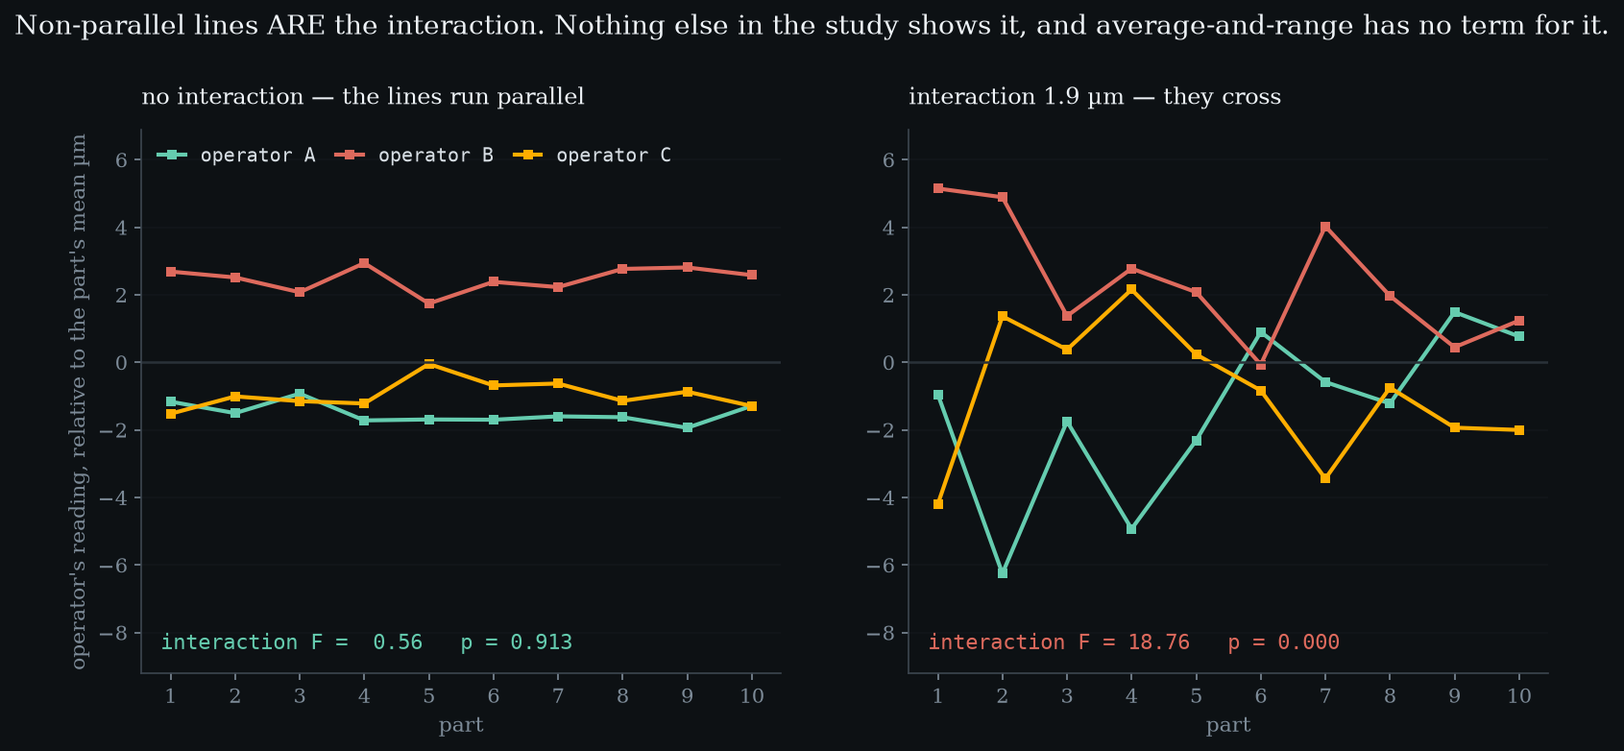
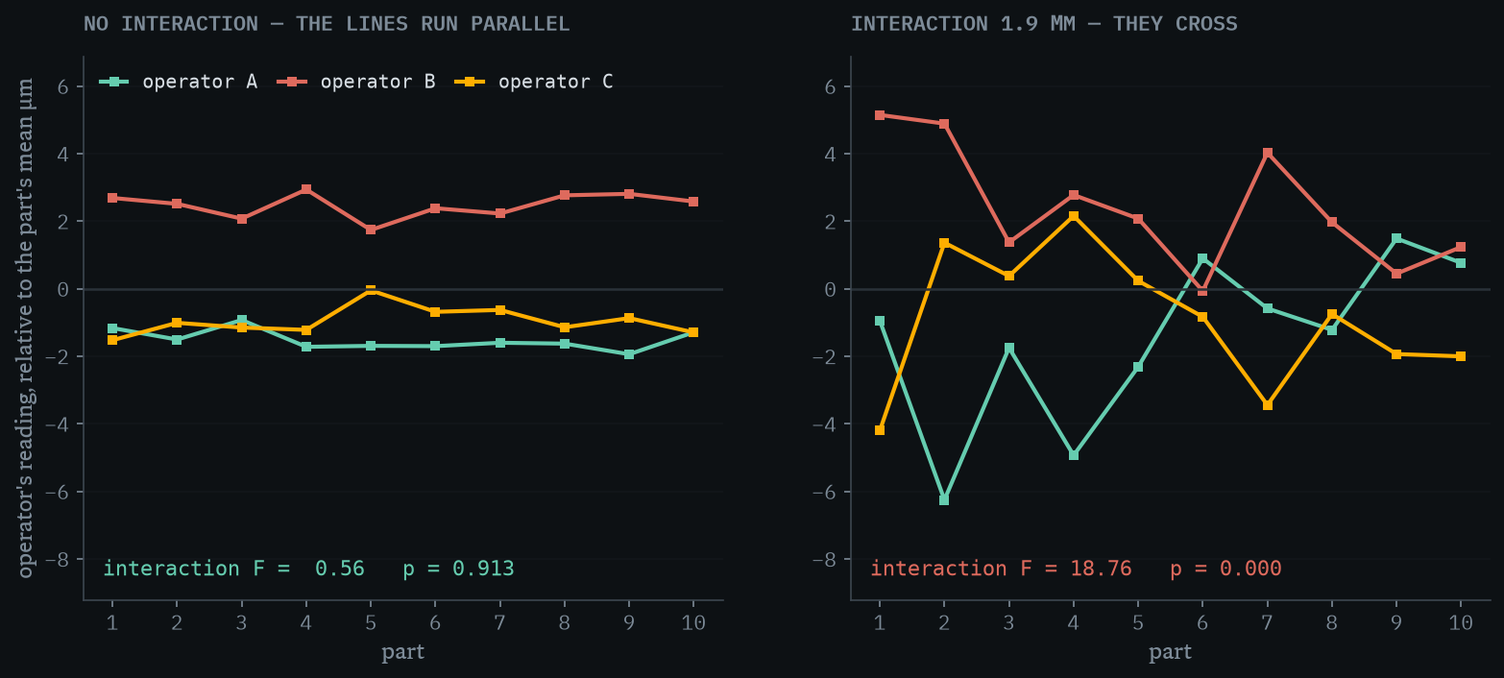
Figures: site type (Libron + Plex Mono), suptitles dropped, panel titles as mono labels, text-collision check
figstyle.apply() loads the page faces; finish() removes the suptitle (the
figcaption already carries it), sets panel titles as mono micro-labels and
prints any overlapping text boxes. img width/height synced to the new PNGs.

Also reverts the SPC card on the landing page: contract check 11 allows one
link to the other course, at the seam (note added to the contract).

diff --git a/level-04.html b/level-04.html
@@ -548,7 +548,7 @@
           <p>Improve the process - take the part spread from 4.7&nbsp;µm down to 1.2 - and the study ratio gets <em>worse</em>, from 40.1&nbsp;% to 86.4. <span class="note data"><span class="k">tightening the process</span><span class="row num"><span class="rk">study ratio before</span><span class="rv">40.1 %</span></span><span class="row num"><span class="rk">study ratio after</span><span class="rv">86.4 %</span></span><span class="row txt"><span class="rk">tolerance ratio</span><span class="rv">41.2 % (unmoved)</span></span></span>Nothing about the instrument changed. A gauge measuring parts that are nearly identical cannot sort them, and as the parts converge the ratio approaches a hundred percent.</p>
           <p>Which is worth stating plainly, because it is the opposite of an intuition: a good process makes a gauge look bad on the study ratio. <span class="note"><span class="k">both are honest</span>If you are sorting parts into bins, the study ratio is the one you want. If you are stamping conform or not, it is the wrong number entirely.</span>The gauge did not get worse. The question got harder.</p>
 <figure>
-        <a class="zoom" href="msa-lab/docs/l04_1_against_what.png"><img src="msa-lab/docs/l04_1_against_what.png" width="1873" height="783"
+        <a class="zoom" href="msa-lab/docs/l04_1_against_what.png"><img src="msa-lab/docs/l04_1_against_what.png" width="1728" height="707"
              loading="lazy" decoding="async"
              alt="Left: the gauge spread drawn to scale beside the study spread and the tolerance. Right: a map of part spread against tolerance, shaded where the two AIAG gates give opposite verdicts for the same gauge."></a>
         <figcaption><span class="fignum">Figure 4.2</span><span class="figtext">Same numerator, two denominators. The shaded region is where the two gates disagree &mdash; for one unchanged gauge.</span></figcaption>
@@ -607,7 +607,7 @@
           <p class="lead">Beside those two the standard prints a third: the <a class="gl" href="glossary.html#ndc" data-gl="ndc">number of distinct categories</a>, which is supposed to say how many groups the gauge can separate.</p>
           <p>It is not <a class="gl" href="glossary.html#independence" data-gl="independence">independent</a>. <span class="note data"><span class="k">two routes, one number</span><span class="row num"><span class="rk"><span class="nc">ndc</span> from the components</span><span class="rv">3.2184</span></span><span class="row num"><span class="rk"><span class="nc">ndc</span> from the study ratio</span><span class="rv">3.2184</span></span><span class="row num"><span class="rk">difference</span><span class="rv">0 (algebraic)</span></span></span>ndc is <span class="tex" data-tex="1.41\,\sigma_{part}/\sigma_{gauge}"><span class="katex"><span class="katex-mathml"><math xmlns="http://www.w3.org/1998/Math/MathML"><semantics><mrow><mn>1.41</mn><mtext> </mtext><msub><mi>σ</mi><mrow><mi>p</mi><mi>a</mi><mi>r</mi><mi>t</mi></mrow></msub><mi mathvariant="normal">/</mi><msub><mi>σ</mi><mrow><mi>g</mi><mi>a</mi><mi>u</mi><mi>g</mi><mi>e</mi></mrow></msub></mrow><annotation encoding="application/x-tex">1.41\,\sigma_{part}/\sigma_{gauge}</annotation></semantics></math></span><span class="katex-html" aria-hidden="true"><span class="katex-base"><span class="katex-strut" style="height:1.0361em;vertical-align:-0.2861em;"></span><span class="mord">1.41</span><span class="mspace" style="margin-right:0.1667em;"></span><span class="mord"><span class="mord mathnormal" style="margin-right:0.0359em;">σ</span><span class="msupsub"><span class="vlist-t vlist-t2"><span class="vlist-r"><span class="vlist" style="height:0.2806em;"><span style="top:-2.55em;margin-left:-0.0359em;margin-right:0.05em;"><span class="pstrut" style="height:2.7em;"></span><span class="katex-sizing reset-size6 size3 mtight"><span class="mord mtight"><span class="mord mathnormal mtight">p</span><span class="mord mathnormal mtight">a</span><span class="mord mathnormal mtight" style="margin-right:0.0278em;">r</span><span class="mord mathnormal mtight">t</span></span></span></span></span><span class="vlist-s"></span></span><span class="vlist-r"><span class="vlist" style="height:0.2861em;"><span></span></span></span></span></span></span><span class="mord">/</span><span class="mord"><span class="mord mathnormal" style="margin-right:0.0359em;">σ</span><span class="msupsub"><span class="vlist-t vlist-t2"><span class="vlist-r"><span class="vlist" style="height:0.1514em;"><span style="top:-2.55em;margin-left:-0.0359em;margin-right:0.05em;"><span class="pstrut" style="height:2.7em;"></span><span class="katex-sizing reset-size6 size3 mtight"><span class="mord mtight"><span class="mord mathnormal mtight" style="margin-right:0.0359em;">g</span><span class="mord mathnormal mtight">a</span><span class="mord mathnormal mtight" style="margin-right:0.0359em;">ug</span><span class="mord mathnormal mtight">e</span></span></span></span></span><span class="vlist-s"></span></span><span class="vlist-r"><span class="vlist" style="height:0.2861em;"><span></span></span></span></span></span></span></span></span></span></span>, and the study ratio is <span class="tex" data-tex="\sigma_{gauge}/\sigma_{total}"><span class="katex"><span class="katex-mathml"><math xmlns="http://www.w3.org/1998/Math/MathML"><semantics><mrow><msub><mi>σ</mi><mrow><mi>g</mi><mi>a</mi><mi>u</mi><mi>g</mi><mi>e</mi></mrow></msub><mi mathvariant="normal">/</mi><msub><mi>σ</mi><mrow><mi>t</mi><mi>o</mi><mi>t</mi><mi>a</mi><mi>l</mi></mrow></msub></mrow><annotation encoding="application/x-tex">\sigma_{gauge}/\sigma_{total}</annotation></semantics></math></span><span class="katex-html" aria-hidden="true"><span class="katex-base"><span class="katex-strut" style="height:1.0361em;vertical-align:-0.2861em;"></span><span class="mord"><span class="mord mathnormal" style="margin-right:0.0359em;">σ</span><span class="msupsub"><span class="vlist-t vlist-t2"><span class="vlist-r"><span class="vlist" style="height:0.1514em;"><span style="top:-2.55em;margin-left:-0.0359em;margin-right:0.05em;"><span class="pstrut" style="height:2.7em;"></span><span class="katex-sizing reset-size6 size3 mtight"><span class="mord mtight"><span class="mord mathnormal mtight" style="margin-right:0.0359em;">g</span><span class="mord mathnormal mtight">a</span><span class="mord mathnormal mtight" style="margin-right:0.0359em;">ug</span><span class="mord mathnormal mtight">e</span></span></span></span></span><span class="vlist-s"></span></span><span class="vlist-r"><span class="vlist" style="height:0.2861em;"><span></span></span></span></span></span></span><span class="mord">/</span><span class="mord"><span class="mord mathnormal" style="margin-right:0.0359em;">σ</span><span class="msupsub"><span class="vlist-t vlist-t2"><span class="vlist-r"><span class="vlist" style="height:0.3361em;"><span style="top:-2.55em;margin-left:-0.0359em;margin-right:0.05em;"><span class="pstrut" style="height:2.7em;"></span><span class="katex-sizing reset-size6 size3 mtight"><span class="mord mtight"><span class="mord mathnormal mtight">t</span><span class="mord mathnormal mtight">o</span><span class="mord mathnormal mtight">t</span><span class="mord mathnormal mtight">a</span><span class="mord mathnormal mtight" style="margin-right:0.0197em;">l</span></span></span></span></span><span class="vlist-s"></span></span><span class="vlist-r"><span class="vlist" style="height:0.15em;"><span></span></span></span></span></span></span></span></span></span></span>, so one determines the other exactly. Plot ndc against the study ratio and you get a curve, not a cloud. It cannot carry information the first number did not already have, and it cannot rank two gauges differently.</p>
 <figure>
-        <a class="zoom" href="msa-lab/docs/l04_2_what_the_numbers_are_worth.png"><img src="msa-lab/docs/l04_2_what_the_numbers_are_worth.png" width="1627" height="783"
+        <a class="zoom" href="msa-lab/docs/l04_2_what_the_numbers_are_worth.png"><img src="msa-lab/docs/l04_2_what_the_numbers_are_worth.png" width="1592" height="707"
              loading="lazy" decoding="async"
              alt="Left: ndc plotted against %GRR, a single curve, with both printed gates marked 2.9 points apart. Right: gauge readings against true sizes with the limits drawn, and the accepted bad parts and rejected good parts picked out."></a>
         <figcaption><span class="fignum">Figure 4.3</span><span class="figtext">ndc is a curve, not a cloud: given %GRR it is determined. And the two gates printed beside each other are 2.9 points apart.</span></figcaption>

diff --git a/level-07.html b/level-07.html
@@ -560,7 +560,7 @@
           <p>Nothing has been assumed and nothing estimated. <span class="note data"><span class="k">an identity, not an approximation</span><span class="row num"><span class="rk">T / 6σ_gauge</span><span class="rv">2.428215</span></span><span class="row num"><span class="rk">100 / %GRR_tol</span><span class="rv">2.428215</span></span><span class="row num"><span class="rk">identical</span><span class="rv">yes</span></span><span class="row num"><span class="rk">%GRR of tolerance</span><span class="rv">41.1825 %</span></span></span>A <a class="gl" href="glossary.html#capability" data-gl="capability">capability index</a> is half a tolerance over three standard deviations; put the gauge&rsquo;s standard deviation there, which is what remains when the process is perfect, and the result is the reciprocal of the percentage Level 4 already computed. <a class="gl" href="glossary.html#pct-grr" data-gl="pct-grr">%GRR</a> against tolerance <em>is</em> a capability ceiling, written as a percentage.</p>
           <p>Which restates every published gauge gate as something the quality manual never puts beside it.<span class="note data"><span class="k">the gates, restated</span><span class="row txt"><span class="rk">%GRR_tol 10 %</span><span class="rv">Cpk can never exceed 10.000</span></span><span class="row txt"><span class="rk">%GRR_tol 20 %</span><span class="rv">Cpk can never exceed 5.000</span></span><span class="row txt"><span class="rk">%GRR_tol 30 %</span><span class="rv">Cpk can never exceed 3.333</span></span></span></p>
 <figure>
-        <a class="zoom" href="msa-lab/docs/l07_1_the_identity.png"><img src="msa-lab/docs/l07_1_the_identity.png" width="1873" height="783"
+        <a class="zoom" href="msa-lab/docs/l07_1_the_identity.png"><img src="msa-lab/docs/l07_1_the_identity.png" width="1602" height="595"
              loading="lazy" decoding="async"
              alt="The ceiling on Cpk plotted against %GRR, with the 10%, 20% and 30% gates marked and our 41.2% gauge capped at 2.43."></a>
         <figcaption><span class="fignum">Figure 7.2</span><span class="figtext">Cpk can never exceed 100 / %GRR. A 10% gauge caps it at 10.00, 20% at 5.00, 30% at 3.33; our gauge at 41.2% caps it at 2.43.</span></figcaption>
@@ -611,7 +611,7 @@
           <p class="lead">One thing remains impossible from the chart&rsquo;s side. The spread it estimates inside a subgroup is the sum of two things: parts differing from each other, and the gauge failing to repeat.</p>
           <p>On our numbers that estimate is 4.8052&nbsp;µm, of which 4.33&nbsp;% of the variance is <a class="gl" href="glossary.html#repeatability" data-gl="repeatability">repeatability</a>. <span class="note data"><span class="k">all read as 4.8052 µm</span><span class="row txt"><span class="rk">0 % gauge</span><span class="rv">parts 4.805, gauge 0.000 → true Cpk 1.04</span></span><span class="row txt"><span class="rk">20 % gauge</span><span class="rv">parts 4.298, gauge 2.149 → true Cpk 1.16</span></span><span class="row txt"><span class="rk">40 % gauge</span><span class="rv">parts 3.722, gauge 3.039 → true Cpk 1.34</span></span><span class="row txt"><span class="rk">60 % gauge</span><span class="rv">parts 3.039, gauge 3.722 → true Cpk 1.65</span></span><span class="row txt"><span class="rk">80 % gauge</span><span class="rv">parts 2.149, gauge 4.298 → true Cpk 2.33</span></span></span>But the share is not the point &mdash; the point is that it cannot be recovered. Every split below produces the <em>identical</em> number on the chart, while the real capability underneath ranges over more than a factor of two.</p>
 <figure>
-        <a class="zoom" href="msa-lab/docs/l07_2_what_the_chart_cannot_see.png"><img src="msa-lab/docs/l07_2_what_the_chart_cannot_see.png" width="1627" height="783"
+        <a class="zoom" href="msa-lab/docs/l07_2_what_the_chart_cannot_see.png"><img src="msa-lab/docs/l07_2_what_the_chart_cannot_see.png" width="1668" height="595"
              loading="lazy" decoding="async"
              alt="Left: rows of identical within-subgroup variance, split into part and gauge, beside true Cpk from 1.04 to 2.33. Right: subgroups to detect a half-sigma shift, 33 without the gauge and 41 with it."></a>
         <figcaption><span class="fignum">Figure 7.3</span><span class="figtext">The within-subgroup variance is the same in every row while the true Cpk runs from 1.04 to 2.33. At a half-sigma shift the gauge stretches the wait from 33 subgroups to 41.</span></figcaption>
@@ -638,9 +638,9 @@
         </div>
       </div>
     </section>
-    <a class="next" href="https://amohdnaw.github.io/spc-from-first-principles/level-08.html">
-      <span class="m">Next course &middot; SPC Level 8</span>
-      <span>Capability is comparing two distributions &rarr;</span>
+    <a class="next" href="index.html">
+      <span class="m">Ammar / MSA</span>
+      <span>Back to the curriculum &rarr;</span>
     </a>
   </main>
 </div>

diff --git a/level-05.html b/level-05.html
@@ -548,7 +548,7 @@
           <p>With the gauge centred, 0.25&nbsp;% of the parts that are genuinely inside <a class="gl" href="glossary.html#tolerance" data-gl="tolerance">tolerance</a> get rejected anyway, and the mistakes split evenly between the two limits — exactly evenly, because the arithmetic is symmetric. <span class="note data"><span class="k">what the same bias does to the decision</span><span class="row num"><span class="rk">good parts rejected, centred</span><span class="rv">0.2479 %</span></span><span class="row num"><span class="rk">of those, at the upper limit</span><span class="rv">50.0 %</span></span><span class="row num"><span class="rk">good parts rejected, 3 µm high</span><span class="rv">0.9072 %</span></span><span class="row num"><span class="rk">of those, at the upper limit</span><span class="rv">99.3 %</span></span></span>Add the 3&nbsp;µm and that rate goes to 0.91&nbsp;%, 3.7 times higher, and 99&nbsp;% of it now happens at one limit.</p>
           <p>That asymmetry is the useful part, because noise cannot produce it. <span class="note"><span class="k">what an operator sees</span>Not a percentage. A pattern in which direction the rejects fall.</span>A gauge that is merely imprecise throws away good parts in both directions. When the rework bench only ever sees oversize parts, the gauge is a better suspect than the process.</p>
 <figure>
-        <a class="zoom" href="msa-lab/docs/l05_1_precision_is_not_accuracy.png"><img src="msa-lab/docs/l05_1_precision_is_not_accuracy.png" width="1873" height="783"
+        <a class="zoom" href="msa-lab/docs/l05_1_precision_is_not_accuracy.png"><img src="msa-lab/docs/l05_1_precision_is_not_accuracy.png" width="1612" height="707"
              loading="lazy" decoding="async"
              alt="Left: two gauges with identical spread and %GRR, one centred and one 3 µm high. Right: good parts scrapped at each limit, with almost every rejection from the biased gauge at the upper limit."></a>
         <figcaption><span class="fignum">Figure 5.2</span><span class="figtext">A centred gauge and one reading 3 µm high give the same spread and the same %GRR, 40.1%. The biased one scraps good parts at 0.91% instead of 0.25%, and 99% of its rejections land at the upper limit.</span></figcaption>
@@ -606,7 +606,7 @@
           <p>A slope of 0.12 means a part ten microns oversize reads 1.2&nbsp;µm high. <span class="note data"><span class="k">the defect that improves the score</span><span class="row num"><span class="rk">slope</span><span class="rv">0.12</span></span><span class="row num"><span class="rk">true part spread</span><span class="rv">4.70 µm</span></span><span class="row num"><span class="rk">apparent part spread</span><span class="rv">5.26 µm</span></span><span class="row num"><span class="rk">against study, linear</span><span class="rv">40.1 %</span></span><span class="row num"><span class="rk">against study, non-linear</span><span class="rv">36.4 %</span></span></span>Because the error now grows with the part, it widens the spread of the readings: the apparent part variation rises from 4.70&nbsp;µm to 5.26, up 12&nbsp;%. That spread is the denominator of the <a class="gl" href="glossary.html#pct-grr" data-gl="pct-grr">study ratio</a>.</p>
           <p>So the ratio <em>improves</em>, by 3.7 points. <span class="note"><span class="k">why the tolerance ratio is unmoved</span>Its denominator came off a drawing, so nothing the gauge does can change it. Level 4, section two, in reverse.</span>The instrument's own defect is counted as process variation and the gauge is rewarded for having it. That is worse than a blind spot: a blind spot reports nothing, and this reports good news.</p>
 <figure>
-        <a class="zoom" href="msa-lab/docs/l05_2_worse_than_invisible.png"><img src="msa-lab/docs/l05_2_worse_than_invisible.png" width="1627" height="783"
+        <a class="zoom" href="msa-lab/docs/l05_2_worse_than_invisible.png"><img src="msa-lab/docs/l05_2_worse_than_invisible.png" width="1594" height="707"
              loading="lazy" decoding="async"
              alt="Left: gauge error against part size with a slope of 0.12, and the %GRR it produces. Right: monthly master-part readings drifting 6.1 µm while the monthly %GRR stays flat."></a>
         <figcaption><span class="fignum">Figure 5.3</span><span class="figtext">A linearity slope of 0.12 stretches the parts, so %GRR improves from 40.1% to 36.4%. Monthly master checks show a 6.1 µm drift, 20% of the tolerance, while %GRR reads 40.1% every month.</span></figcaption>

diff --git a/level-06.html b/level-06.html
@@ -559,7 +559,7 @@
           <p>But the chance term is built from the marginals, so it depends on how lopsided the stream is. <span class="note data"><span class="k">all at 90 % observed</span><span class="row num"><span class="rk">50 % of the agreement in 'pass'</span><span class="rv">0.800</span></span><span class="row num"><span class="rk">70 % of the agreement in 'pass'</span><span class="rv">0.770</span></span><span class="row num"><span class="rk">85 % of the agreement in 'pass'</span><span class="rv">0.668</span></span><span class="row num"><span class="rk">95 % of the agreement in 'pass'</span><span class="rv">0.418</span></span><span class="row num"><span class="rk">99 % of the agreement in 'pass'</span><span class="rv">0.099</span></span></span>Hold the observed agreement fixed at 90&nbsp;% and move nothing but the skew, and kappa runs from 0.800 down to 0.099. Five tables, one percent agreement, and a verdict that swings from excellent to worthless.</p>
           <p>The direction of that is the problem. <span class="note"><span class="k">not a reason to ignore it</span>Kappa is right that little has been learned. What is wrong is reading it as a score for the appraisers.</span>A capable process puts nearly all of its parts in one cell, which is the skewed end, which is where kappa collapses. Being good at making parts lowers your kappa without anybody touching the gauge.</p>
 <figure>
-        <a class="zoom" href="msa-lab/docs/l06_1_kappa_is_not_free.png"><img src="msa-lab/docs/l06_1_kappa_is_not_free.png" width="1873" height="783"
+        <a class="zoom" href="msa-lab/docs/l06_1_kappa_is_not_free.png"><img src="msa-lab/docs/l06_1_kappa_is_not_free.png" width="1680" height="602"
              loading="lazy" decoding="async"
              alt="Left: percent agreement held flat at 90% while kappa falls from 0.80 to 0.10. Right: the agreement table for the gauge from Levels 2 to 5, with its agreement and kappa."></a>
         <figcaption><span class="fignum">Figure 6.2</span><span class="figtext">Agreement held at 90% while kappa falls from 0.80 to 0.10, as the agreement piles into the pass cell. The gauge from Levels 2 to 5 agrees 99.55% of the time and scores a kappa of 0.341.</span></figcaption>
@@ -616,7 +616,7 @@
           <p class="lead">If the disagreements come from the instrument, their location is not a mystery. A part far inside the limit is never failed; a part far outside is never passed. Everything contested sits in a band around the limit whose width the gauge sets.</p>
           <p>Within one gauge sigma of a limit lies 0.56&nbsp;% of production and 48.9&nbsp;% of every disagreement. <span class="note data"><span class="k">where the contested parts are</span><span class="row txt"><span class="rk">within ±1σ of the limit</span><span class="rv">0.56 % of parts, 48.9 % of mistakes</span></span><span class="row txt"><span class="rk">within ±2σ of the limit</span><span class="rv">2.06 % of parts, 87.2 % of mistakes</span></span><span class="row txt"><span class="rk">within ±3σ of the limit</span><span class="rv">6.05 % of parts, 98.7 % of mistakes</span></span></span>Within three sigmas, 6.05&nbsp;% of production and 98.7&nbsp;%. Which is why retraining the appraiser does so little: he is being asked to resolve differences smaller than the tool can report.</p>
 <figure>
-        <a class="zoom" href="msa-lab/docs/l06_2_where_the_mistakes_are.png"><img src="msa-lab/docs/l06_2_where_the_mistakes_are.png" width="1627" height="783"
+        <a class="zoom" href="msa-lab/docs/l06_2_where_the_mistakes_are.png"><img src="msa-lab/docs/l06_2_where_the_mistakes_are.png" width="1573" height="602"
              loading="lazy" decoding="async"
              alt="The production distribution against the specification limit, with bands at one, two and three gauge sigmas, and the share of parts and of misclassifications in each."></a>
         <figcaption><span class="fignum">Figure 6.3</span><span class="figtext">Within 3σ of the limit lies 6.05% of production but 98.7% of the mistakes. Within 1σ: 0.56% of parts, 48.9% of mistakes, 87 times their share.</span></figcaption>

diff --git a/level-02.html b/level-02.html
@@ -545,7 +545,7 @@
           <h2>The offset has to persist</h2>
           <p class="lead">A difference between two operators on one part is not evidence of anything: it could be repeatability wearing a costume. What makes reproducibility a separate term is that the offset travels with the person across every part they touch.</p>
 <figure>
-        <a class="zoom" href="msa-lab/docs/l02_1_two_distances.png"><img src="msa-lab/docs/l02_1_two_distances.png" width="1646" height="782"
+        <a class="zoom" href="msa-lab/docs/l02_1_two_distances.png"><img src="msa-lab/docs/l02_1_two_distances.png" width="1600" height="706"
              loading="lazy" decoding="async"
              alt="Left: ten parts measured by three operators, the three operator lines running roughly parallel. Right: the gauge variance split between repeatability and reproducibility, with both fixes priced."></a>
         <figcaption><span class="fignum">Figure 2.2</span><span class="figtext">Reproducibility is an offset that persists across parts. Beside it the same gauge term split, and what each fix is worth.</span></figcaption>
@@ -577,7 +577,7 @@
           <p>On a gauge whose repeatability dominates - 3.0&nbsp;µm against 0.4 - that borrowed term is most of the answer. <span class="note data"><span class="k">a number about the wrong thing</span><span class="row num"><span class="rk">the truth</span><span class="rv">0.4 µm</span></span><span class="row num"><span class="rk">what the naive estimator targets</span><span class="rv">0.678 µm</span></span><span class="row num"><span class="rk">of that, borrowed repeatability</span><span class="rv">65 %</span></span></span>The naive estimator targets 0.678&nbsp;µm when the truth is 0.4: it overstates by 70&nbsp;%, and 65&nbsp;% of what it reports is the instrument rather than the people.</p>
           <p>One study cannot show you this. <span class="note data"><span class="k">why one study is not evidence</span><span class="row num"><span class="rk">one study said</span><span class="rv">0.260 µm</span></span><span class="row num"><span class="rk">4000 studies, uncorrected</span><span class="rv">0.604 µm</span></span><span class="row num"><span class="rk">against the truth</span><span class="rv">+51 %</span></span></span>With 3 operators the estimate has 2 degrees of freedom and about 50&nbsp;% of error, so the seeded study here reported 0.260 - below the truth, in the opposite direction to the <a class="gl" href="glossary.html#bias" data-gl="bias">bias</a>. Averaged over four thousand studies the bias appears exactly as the algebra says.</p>
 <figure>
-        <a class="zoom" href="msa-lab/docs/l02_2_the_operator_term.png"><img src="msa-lab/docs/l02_2_the_operator_term.png" width="1924" height="783"
+        <a class="zoom" href="msa-lab/docs/l02_2_the_operator_term.png"><img src="msa-lab/docs/l02_2_the_operator_term.png" width="1616" height="707"
              loading="lazy" decoding="async"
              alt="Left: three thousand studies of a repeatability-dominant gauge, the uncorrected and clamped reproducibility estimates, and the spike of studies clamped at zero. Right: relative error against degrees of freedom."></a>
         <figcaption><span class="fignum">Figure 2.3</span><span class="figtext">Three thousand studies of the same gauge. Uncorrected the operator term reads high, clamped it reads low, and 47 % of studies are pushed onto zero.</span></figcaption>

diff --git a/level-01.html b/level-01.html
@@ -548,7 +548,7 @@
           <p>Every reading is the part plus whatever the measurement process did on that occasion. <span class="note"><span class="k">what is left out</span>Bias — a gauge that reads high on everything — is Level 5. Here the error averages to zero, so nothing can be blamed on it.</span>Written down, that is unremarkable. Its consequence is not.</p>
           <p>If the reading is a sum, the spread of the readings is the spread of a sum. <span class="note"><span class="k">independent</span>It matters. If the gauge read high on big parts the two terms would be correlated and the arithmetic below would be wrong.</span>And the spread of a sum of two <a class="gl" href="glossary.html#independence" data-gl="independence">independent</a> things is not the sum of their spreads.</p>
 <figure>
-        <a class="zoom" href="msa-lab/docs/l01_1_a_gauge_is_a_process.png"><img src="msa-lab/docs/l01_1_a_gauge_is_a_process.png" width="1627" height="783"
+        <a class="zoom" href="msa-lab/docs/l01_1_a_gauge_is_a_process.png"><img src="msa-lab/docs/l01_1_a_gauge_is_a_process.png" width="1566" height="707"
              loading="lazy" decoding="async"
              alt="Left: one bore measured two hundred times, forming a distribution around its single true size. Right: six thousand parts drawn as they are and as two different gauges report them."></a>
         <figcaption><span class="fignum">Figure 1.2</span><span class="figtext">One part has
@@ -579,7 +579,7 @@
           <p class="lead">Here is where this level nearly went wrong. The claim is that the observed spread exceeds the part spread. The seeded forty-part study in the library reports the opposite.</p>
           <p>Its observed spread came out at 3.99&nbsp;µm against a true part spread of 4.7. <span class="note data"><span class="k">signal against noise</span><span class="row num"><span class="rk">the effect</span><span class="rv">4.3 %</span></span><span class="row num"><span class="rk">one study's noise</span><span class="rv">11 %</span></span><span class="row num"><span class="rk">studies pointing the wrong way</span><span class="rv">39 %</span></span></span>Narrower. The <a class="gl" href="glossary.html#variance" data-gl="variance">variance</a> law forbids that in expectation, and sampling permits it constantly: at forty parts the sampling error of a <a class="gl" href="glossary.html#standard-deviation" data-gl="standard-deviation">standard deviation</a> is about 11&nbsp;%, and the effect being looked for is 4.3&nbsp;%.</p>
 <figure>
-        <a class="zoom" href="msa-lab/docs/l01_2_what_one_study_can_show.png"><img src="msa-lab/docs/l01_2_what_one_study_can_show.png" width="1809" height="783"
+        <a class="zoom" href="msa-lab/docs/l01_2_what_one_study_can_show.png"><img src="msa-lab/docs/l01_2_what_one_study_can_show.png" width="1579" height="707"
              loading="lazy" decoding="async"
              alt="Left: the sampling distribution of an observed standard deviation across four thousand forty-part studies, with the true part spread and the exact observed spread inside the noise. Right: the averaging floor."></a>
         <figcaption><span class="fignum">Figure 1.3</span><span class="figtext">Four thousand

diff --git a/level-03.html b/level-03.html
@@ -546,7 +546,7 @@
           <p class="lead">Level 2 assumed something without saying so: that each operator's offset is the same on every part. Operator A reads low, and reads low by the same amount on part one and part ten.</p>
           <p>Suppose A reads low on the small parts and high on the large ones. <span class="note"><span class="k">what it is not</span>Not extra repeatability. It is perfectly reproducible: measure that part again and the same operator makes the same error.</span>That is a real and common failure - a fixture that locates some geometries badly, an operator who interpolates a scale differently near the ends - and it has a name: the <a class="gl" href="glossary.html#interaction" data-gl="interaction">part-by-operator interaction</a>.</p>
 <figure>
-        <a class="zoom" href="msa-lab/docs/l03_1_parallel_or_not.png"><img src="msa-lab/docs/l03_1_parallel_or_not.png" width="1691" height="782"
+        <a class="zoom" href="msa-lab/docs/l03_1_parallel_or_not.png"><img src="msa-lab/docs/l03_1_parallel_or_not.png" width="1566" height="706"
              loading="lazy" decoding="async"
              alt="Two studies of the same gauge with each part&rsquo;s mean removed. Left: no interaction, the three operator lines run parallel. Right: an interaction of 1.9 microns, the lines cross repeatedly."></a>
         <figcaption><span class="fignum">Figure 3.2</span><span class="figtext">Non-parallel lines ARE the interaction. Nothing else in the study shows it, and the F test goes with the crossing.</span></figcaption>
@@ -616,7 +616,7 @@
           <h2>Three hundred studies, because one settles nothing</h2>
           <p class="lead">On the single seeded study above, ANOVA reports 3.35&nbsp;µm against a truth of 2.80 - it <em>overshoots</em> by more than average-and-range undershoots. <span class="note"><span class="k">kept on purpose</span>A test asserts the seeded study reverses the ranking. Reseeding until it agreed with the conclusion would be the dishonest fix.</span>One study does not settle which method is better, and this is the fourth time this curriculum has had to say so.</p>
 <figure>
-        <a class="zoom" href="msa-lab/docs/l03_2_what_omitting_it_costs.png"><img src="msa-lab/docs/l03_2_what_omitting_it_costs.png" width="1870" height="783"
+        <a class="zoom" href="msa-lab/docs/l03_2_what_omitting_it_costs.png"><img src="msa-lab/docs/l03_2_what_omitting_it_costs.png" width="1879" height="706"
              loading="lazy" decoding="async"
              alt="Left: both methods&rsquo; error against the true gauge as the interaction grows, averaged over three hundred studies per point. Right: the gauge variance as each method reports it, with the interaction segment absent from average-and-range."></a>
         <figcaption><span class="fignum">Figure 3.3</span><span class="figtext">One method follows the truth as the interaction grows; the other does not move, because it has no term for what is changing.</span></figcaption>

diff --git a/tools/page-sources/level-07.html b/tools/page-sources/level-07.html
@@ -342,7 +342,7 @@
       <div class="rule"></div>
 
       <figure>
-        <img src="msa-lab/docs/l07_1_the_identity.png" width="1873" height="783"
+        <img src="msa-lab/docs/l07_1_the_identity.png" width="1602" height="595"
              loading="lazy" decoding="async"
              alt="The ceiling on Cpk plotted against %GRR, with the 10%, 20% and 30% gates marked and our 41.2% gauge capped at 2.43.">
         <figcaption><span class="fignum">Figure 7.2</span><span class="figtext">Cpk can never exceed 100 / %GRR. A 10% gauge caps it at 10.00, 20% at 5.00, 30% at 3.33; our gauge at 41.2% caps it at 2.43.</span></figcaption>
@@ -351,7 +351,7 @@
       <div class="rule"></div>
 
       <figure>
-        <img src="msa-lab/docs/l07_2_what_the_chart_cannot_see.png" width="1627" height="783"
+        <img src="msa-lab/docs/l07_2_what_the_chart_cannot_see.png" width="1668" height="595"
              loading="lazy" decoding="async"
              alt="Left: rows of identical within-subgroup variance, split into part and gauge, beside true Cpk from 1.04 to 2.33. Right: subgroups to detect a half-sigma shift, 33 without the gauge and 41 with it.">
         <figcaption><span class="fignum">Figure 7.3</span><span class="figtext">The within-subgroup variance is the same in every row while the true Cpk runs from 1.04 to 2.33. At a half-sigma shift the gauge stretches the wait from 33 subgroups to 41.</span></figcaption>
@@ -403,9 +403,9 @@
 
     </div>
 
-    <a class="next" href="https://amohdnaw.github.io/spc-from-first-principles/level-08.html">
-      <span class="m">Next course &middot; SPC Level 8</span>
-      <span>Capability is comparing two distributions &rarr;</span>
+    <a class="next" href="index.html">
+      <span class="m">Ammar / MSA</span>
+      <span>Back to the curriculum &rarr;</span>
     </a>
   </main>
 </div>

diff --git a/tools/page-sources/level-05.html b/tools/page-sources/level-05.html
@@ -342,7 +342,7 @@
       <div class="rule"></div>
 
       <figure>
-        <img src="msa-lab/docs/l05_1_precision_is_not_accuracy.png" width="1873" height="783"
+        <img src="msa-lab/docs/l05_1_precision_is_not_accuracy.png" width="1612" height="707"
              loading="lazy" decoding="async"
              alt="Left: two gauges with identical spread and %GRR, one centred and one 3 µm high. Right: good parts scrapped at each limit, with almost every rejection from the biased gauge at the upper limit.">
         <figcaption><span class="fignum">Figure 5.2</span><span class="figtext">A centred gauge and one reading 3 µm high give the same spread and the same %GRR, 40.1%. The biased one scraps good parts at 0.91% instead of 0.25%, and 99% of its rejections land at the upper limit.</span></figcaption>
@@ -351,7 +351,7 @@
       <div class="rule"></div>
 
       <figure>
-        <img src="msa-lab/docs/l05_2_worse_than_invisible.png" width="1627" height="783"
+        <img src="msa-lab/docs/l05_2_worse_than_invisible.png" width="1594" height="707"
              loading="lazy" decoding="async"
              alt="Left: gauge error against part size with a slope of 0.12, and the %GRR it produces. Right: monthly master-part readings drifting 6.1 µm while the monthly %GRR stays flat.">
         <figcaption><span class="fignum">Figure 5.3</span><span class="figtext">A linearity slope of 0.12 stretches the parts, so %GRR improves from 40.1% to 36.4%. Monthly master checks show a 6.1 µm drift, 20% of the tolerance, while %GRR reads 40.1% every month.</span></figcaption>

diff --git a/tools/page-sources/level-03.html b/tools/page-sources/level-03.html
@@ -342,7 +342,7 @@
       <div class="rule"></div>
 
       <figure>
-        <img src="msa-lab/docs/l03_1_parallel_or_not.png" width="1691" height="782"
+        <img src="msa-lab/docs/l03_1_parallel_or_not.png" width="1566" height="706"
              loading="lazy" decoding="async"
              alt="Two studies of the same gauge with each part&rsquo;s mean removed. Left: no interaction, the three operator lines run parallel. Right: an interaction of 1.9 microns, the lines cross repeatedly.">
         <figcaption><span class="fignum">Figure 3.2</span><span class="figtext">Non-parallel lines ARE the interaction. Nothing else in the study shows it, and the F test goes with the crossing.</span></figcaption>
@@ -351,7 +351,7 @@
       <div class="rule"></div>
 
       <figure>
-        <img src="msa-lab/docs/l03_2_what_omitting_it_costs.png" width="1870" height="783"
+        <img src="msa-lab/docs/l03_2_what_omitting_it_costs.png" width="1879" height="706"
              loading="lazy" decoding="async"
              alt="Left: both methods&rsquo; error against the true gauge as the interaction grows, averaged over three hundred studies per point. Right: the gauge variance as each method reports it, with the interaction segment absent from average-and-range.">
         <figcaption><span class="fignum">Figure 3.3</span><span class="figtext">One method follows the truth as the interaction grows; the other does not move, because it has no term for what is changing.</span></figcaption>

diff --git a/tools/page-sources/level-04.html b/tools/page-sources/level-04.html
@@ -342,7 +342,7 @@
       <div class="rule"></div>
 
       <figure>
-        <img src="msa-lab/docs/l04_1_against_what.png" width="1873" height="783"
+        <img src="msa-lab/docs/l04_1_against_what.png" width="1728" height="707"
              loading="lazy" decoding="async"
              alt="Left: the gauge spread drawn to scale beside the study spread and the tolerance. Right: a map of part spread against tolerance, shaded where the two AIAG gates give opposite verdicts for the same gauge.">
         <figcaption><span class="fignum">Figure 4.2</span><span class="figtext">Same numerator, two denominators. The shaded region is where the two gates disagree &mdash; for one unchanged gauge.</span></figcaption>
@@ -351,7 +351,7 @@
       <div class="rule"></div>
 
       <figure>
-        <img src="msa-lab/docs/l04_2_what_the_numbers_are_worth.png" width="1627" height="783"
+        <img src="msa-lab/docs/l04_2_what_the_numbers_are_worth.png" width="1592" height="707"
              loading="lazy" decoding="async"
              alt="Left: ndc plotted against %GRR, a single curve, with both printed gates marked 2.9 points apart. Right: gauge readings against true sizes with the limits drawn, and the accepted bad parts and rejected good parts picked out.">
         <figcaption><span class="fignum">Figure 4.3</span><span class="figtext">ndc is a curve, not a cloud: given %GRR it is determined. And the two gates printed beside each other are 2.9 points apart.</span></figcaption>

diff --git a/tools/page-sources/level-06.html b/tools/page-sources/level-06.html
@@ -342,7 +342,7 @@
       <div class="rule"></div>
 
       <figure>
-        <img src="msa-lab/docs/l06_1_kappa_is_not_free.png" width="1873" height="783"
+        <img src="msa-lab/docs/l06_1_kappa_is_not_free.png" width="1680" height="602"
              loading="lazy" decoding="async"
              alt="Left: percent agreement held flat at 90% while kappa falls from 0.80 to 0.10. Right: the agreement table for the gauge from Levels 2 to 5, with its agreement and kappa.">
         <figcaption><span class="fignum">Figure 6.2</span><span class="figtext">Agreement held at 90% while kappa falls from 0.80 to 0.10, as the agreement piles into the pass cell. The gauge from Levels 2 to 5 agrees 99.55% of the time and scores a kappa of 0.341.</span></figcaption>
@@ -351,7 +351,7 @@
       <div class="rule"></div>
 
       <figure>
-        <img src="msa-lab/docs/l06_2_where_the_mistakes_are.png" width="1627" height="783"
+        <img src="msa-lab/docs/l06_2_where_the_mistakes_are.png" width="1573" height="602"
              loading="lazy" decoding="async"
              alt="The production distribution against the specification limit, with bands at one, two and three gauge sigmas, and the share of parts and of misclassifications in each.">
         <figcaption><span class="fignum">Figure 6.3</span><span class="figtext">Within 3σ of the limit lies 6.05% of production but 98.7% of the mistakes. Within 1σ: 0.56% of parts, 48.9% of mistakes, 87 times their share.</span></figcaption>
